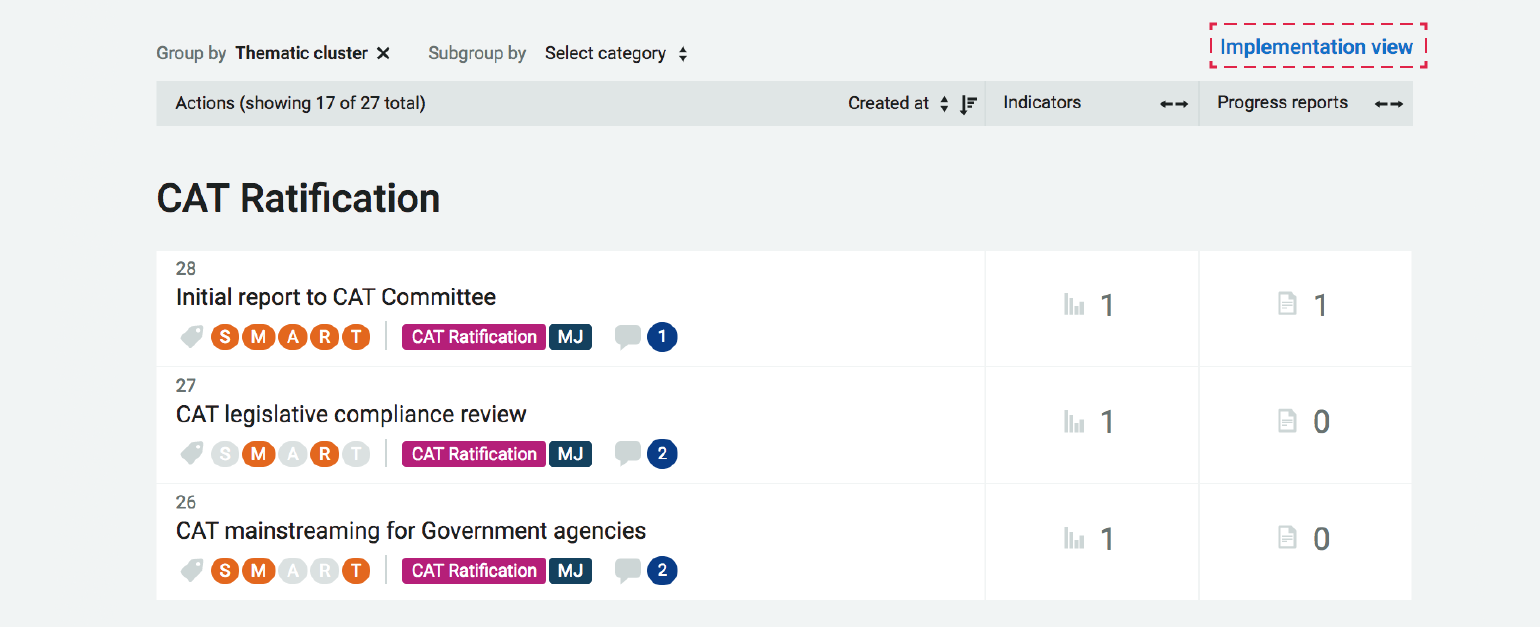
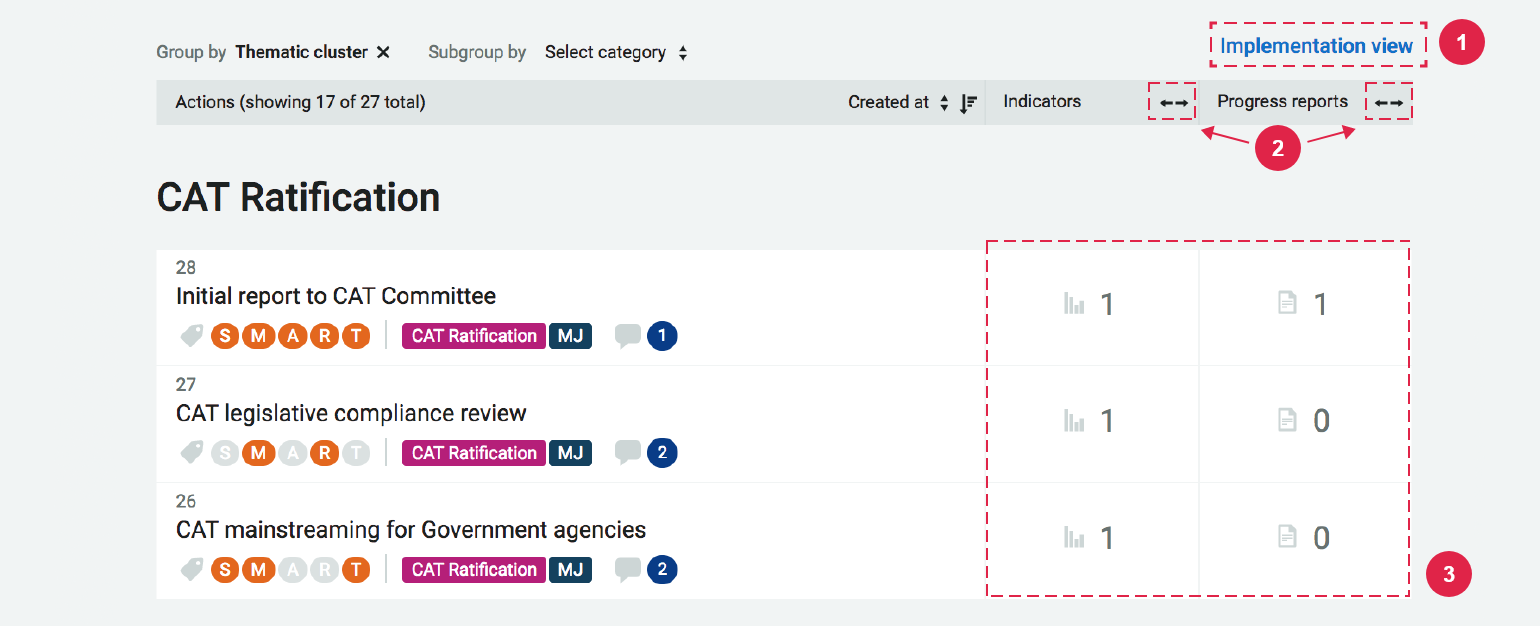
improve list mode documentation #9

diff --git a/visitors/lists-mode.md b/visitors/lists-mode.md
@@ -2,20 +2,27 @@
 
 The National Action Implementation Plan (Action List), as well as Indicator and SDG Target list views, can be viewed in either 'List View' or 'Implementation View'.
 
-**List View**:
+#### List View
 
 The default 'List View' gives the user a condensed overview with the a summary of associated Indicators and Progress Reports only.
 
 ![](/assets/v-impl-list-view.png)
 _Screenshot from demo site ([demo.impactoss.org](https://demo.impactoss.org)) - all content for demo purposes only_
 
-From the list view you can activate the Implementation View either clicking on 'Implementation View' towards the top right-hand corner of the screen (see screenshots). You can also drill down one level at a time by clicking on the respective column headers or summary boxes within each column.
+From the list view you can activate the Implementation View by clicking on 'Implementation View' towards the top right-hand corner of the screen ((1) in screenshot above).
 
-**Implementation View**
+You can alternatively also **drill down one level at a time** by clicking on the respective column headers (2) or nested summary boxes within each column (3).
+
+> Note: minimising expanded columns is only possible using the column headers but not by clicking the nested summary boxes.
+
+
+#### Implementation View
 
 The 'Implementation View' gives a more detailed view with direct access to any associated Indicators and Progress Reports
 
 ![](/assets/v-impl-extended-view.png)
 _Screenshot from demo site ([demo.impactoss.org](https://demo.impactoss.org)) - all content for demo purposes only_
 
-Once selected the user can revert to the List View by clicking on 'List View' or on the column headers.
+Once selected the user can revert to the List View by clicking on 'List View' (1) or on the column headers (2).
+
+> Note: minimising expanded columns is only possible using the column headers but not by clicking the nested summary boxes.
